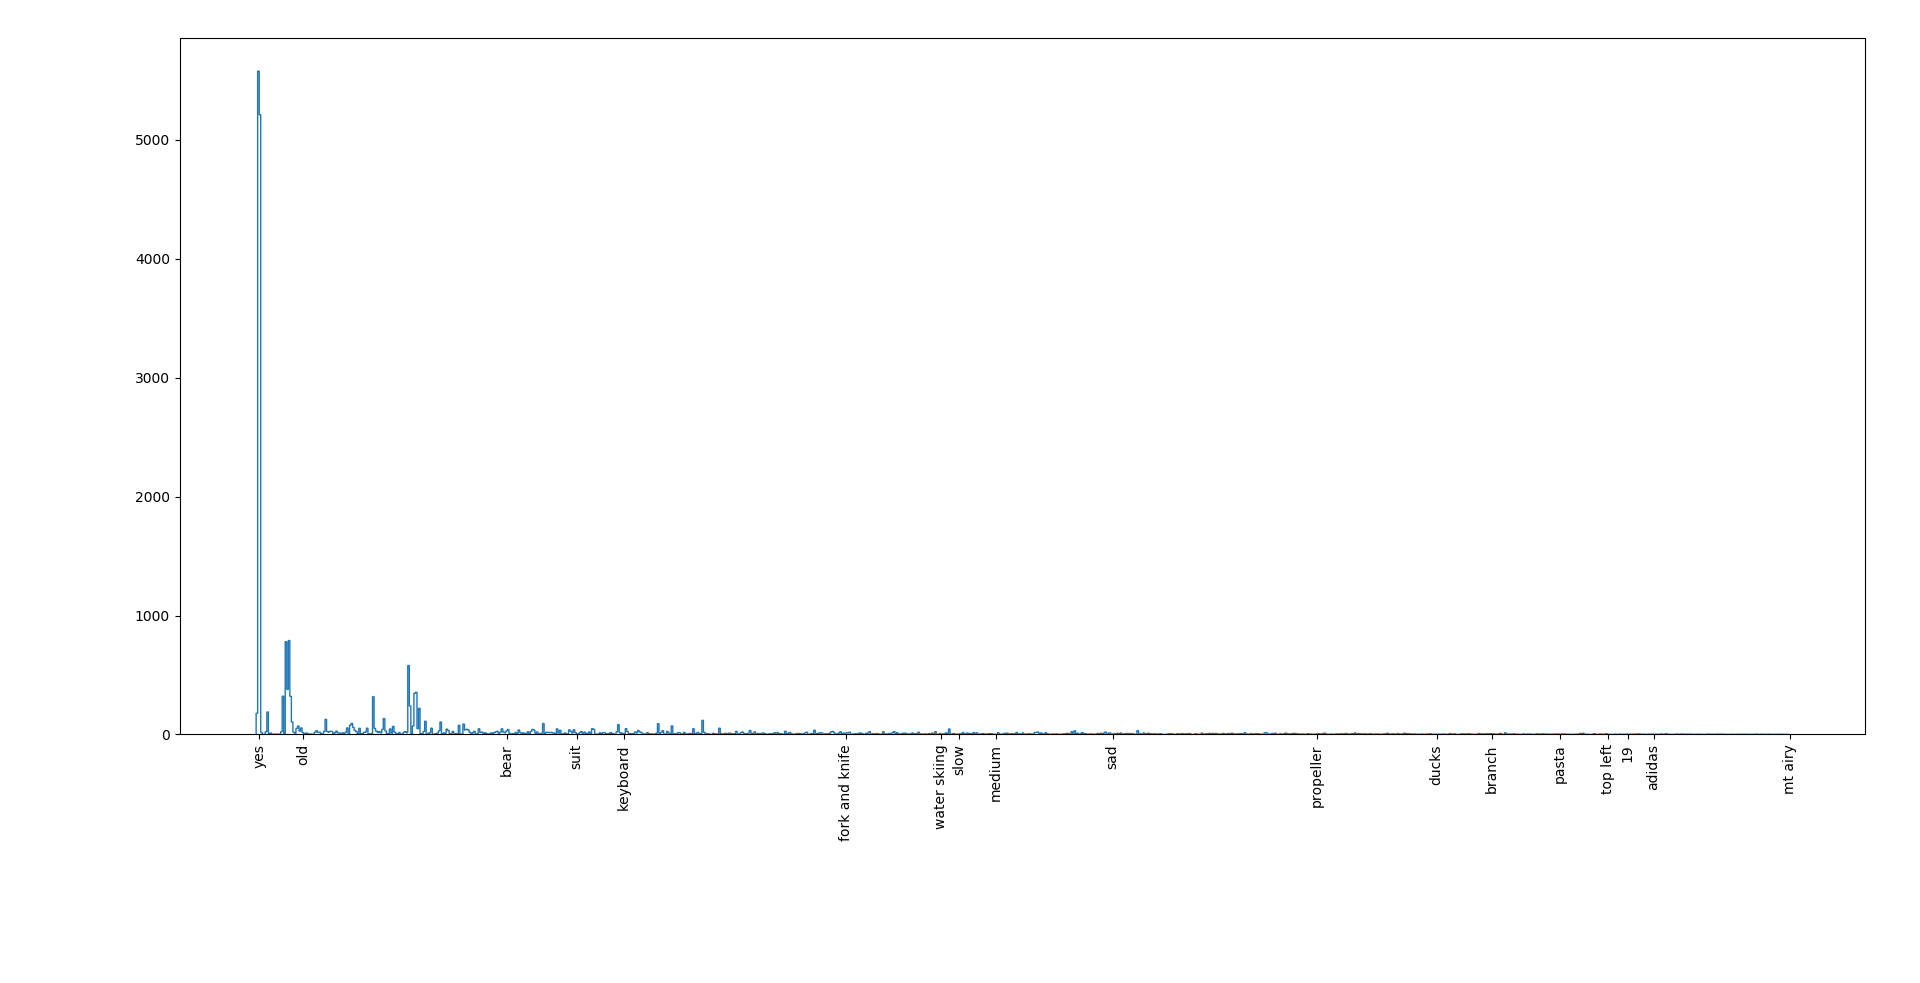
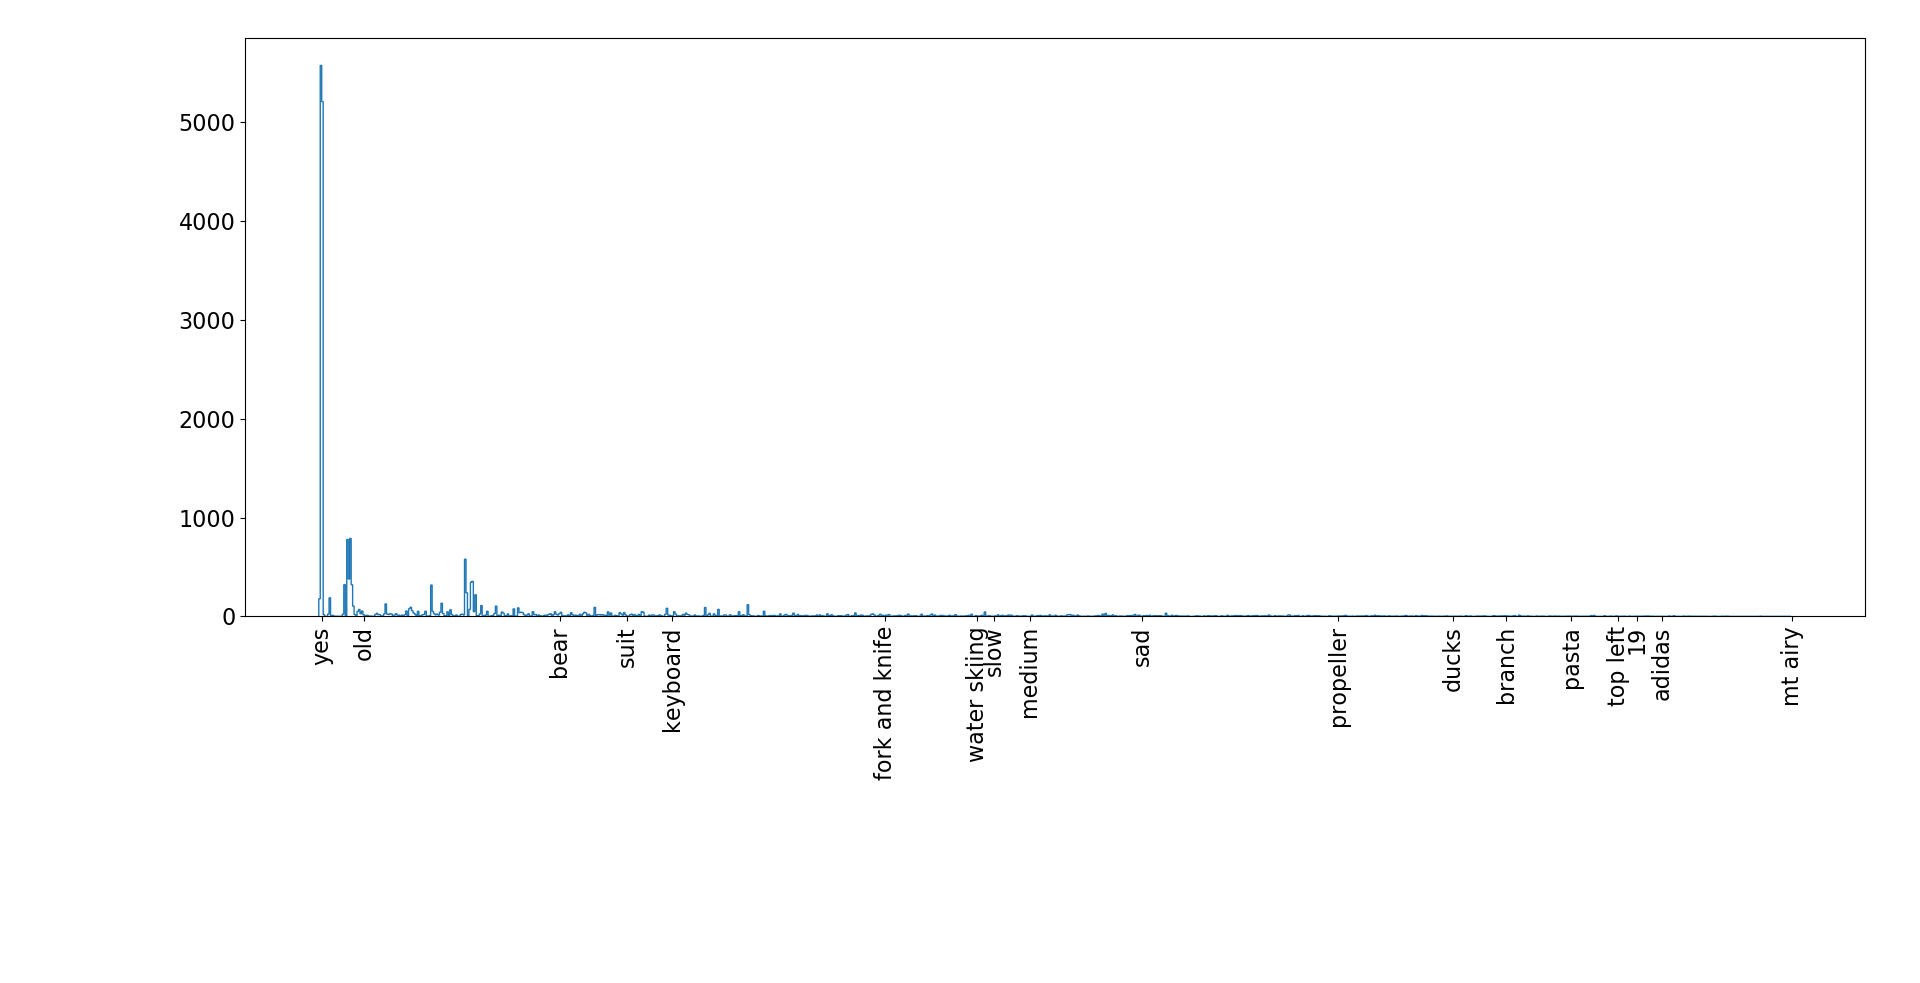
Updated image

diff --git a/upc-vqa/src/data_explore.py b/upc-vqa/src/data_explore.py
@@ -327,6 +327,8 @@ class VQA_explore(object):
         print(xticks)
 
         fig, ax = plt.subplots(1,1)
+        ax = plt.gca()
+        ax.tick_params(axis='both', which='major', labelsize=16)
         ax.hist(subset_answers, bins=1000, histtype='step')
         ax.set_xticks(xticks)
         ax.set_xticklabels(xticks)
